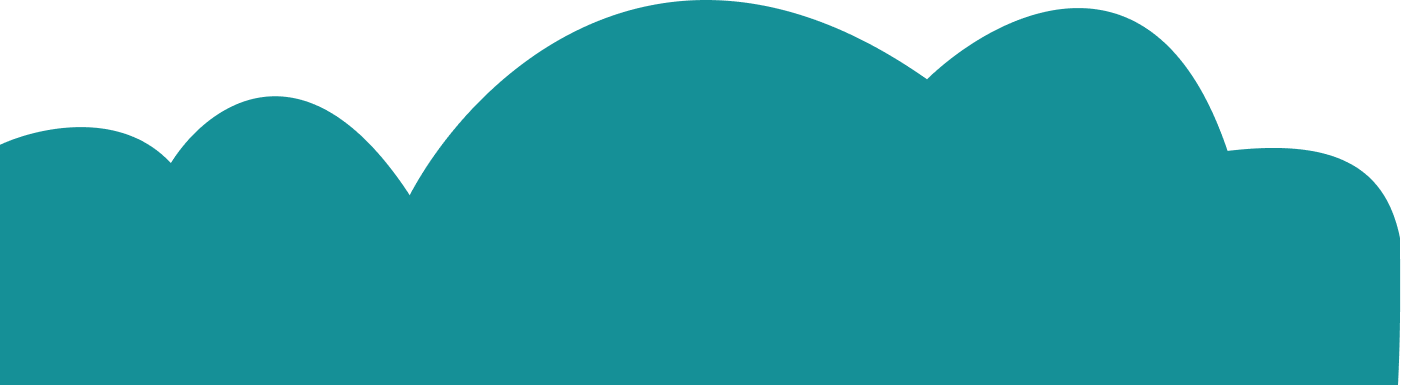
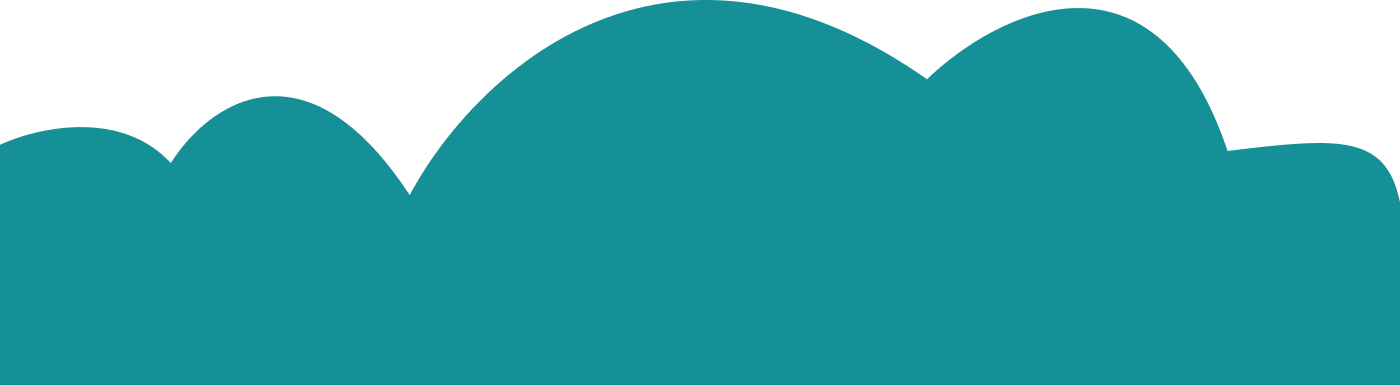
feat: 🎸 About parallax finished (#6)
✅ Closes: #5

Changed region(s): [[0.8907, 0.374, 1.0, 0.5922], [0.9829, 0.9351, 1.0, 1.0]]

diff --git a/src/components/About.tsx b/src/components/About.tsx
@@ -4,7 +4,7 @@ import Techs from './Techs'
 
 export default function About() {
   const { scrollY } = useScroll()
-  const y1 = useTransform(scrollY, [0, 100], [1, 80])
+  const y1 = useTransform(scrollY, [0, 100], [1, 100])
   const y2 = useTransform(scrollY, [0, 100], [1, 50])
 
   return (
@@ -12,11 +12,11 @@ export default function About() {
       <section className="planet-top relative">
         <motion.div
           style={{ y: y1, x: 0 }}
-          className="back-cloud w-full h-[427px] overflow-hidden absolute top-[-248px] left-0 z-[-200]"
+          className="back-cloud w-full h-[247px] overflow-hidden absolute top-[-250px] left-0 z-[-200]"
         ></motion.div>
         <motion.div
           style={{ y: y2, x: 0 }}
-          className="front-cloud w-full h-[380px] absolute top-[-205px] left-0 z-[-100]"
+          className="front-cloud w-full h-[385px] absolute top-[-205px] left-0 z-[-100]"
         ></motion.div>
 
         <div className="section-layout">

diff --git a/tailwind.config.js b/tailwind.config.js
@@ -6,7 +6,7 @@ export default {
       colors: {
         white: 'hsla(0, 0%, 100%, 1)',
         whiteBody: 'hsla(0, 0%, 100%, 0.7)',
-        vdBlue: 'hsla(240, 52%, 5%, 1)',
+        vdBlue: 'hsla(240, 50%, 5%, 1)',
         mdGreen: 'hsla(167, 49%, 43%, 1)',
         dkViolet: 'hsla(240, 47%, 14%, 1)',
         dkPurple: 'hsla(243, 44%, 25%, 1)',

diff --git a/src/index.css b/src/index.css
@@ -63,7 +63,7 @@
   content: '';
   background: url('/assets/planet-top.png') no-repeat;
   background-size: cover;
-  background-position: center;
+  background-position: top;
   width: 100%;
   height: 272px;
   position: absolute;
